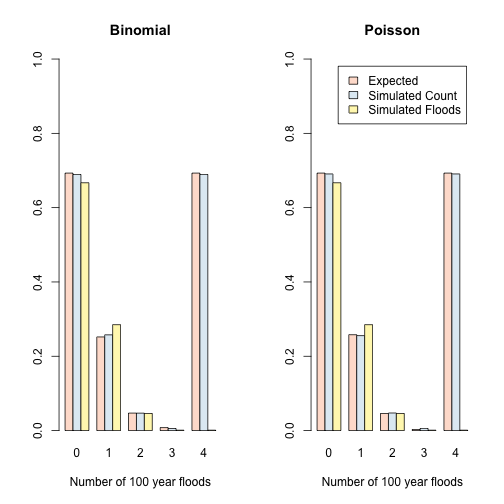
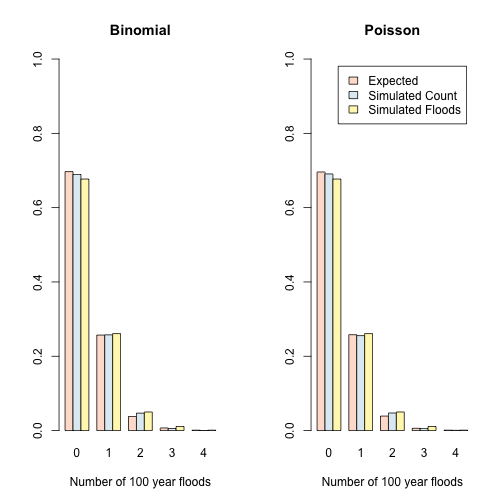
changed output organization

diff --git a/pelicanconf.py b/pelicanconf.py
@@ -2,6 +2,7 @@
 # -*- coding: utf-8 -*- #
 from __future__ import unicode_literals
 
+
 AUTHOR = 'Maazin Ansari'
 SITENAME = 'Maazin Ansari'
 SITEURL = ''
@@ -22,52 +23,57 @@ TRANSLATION_FEED_ATOM = None
 AUTHOR_FEED_ATOM = None
 AUTHOR_FEED_RSS = None
 
-# Blogroll
-LINKS = (('Pelican', 'http://getpelican.com/'),
-         ('Python.org', 'http://python.org/'),
-         ('Jinja2', 'http://jinja.pocoo.org/'),)
+# Theme
+THEME = "notmyidea"
 
 # Social widget
 SOCIAL = (('LinkedIn', 'https://www.linkedin.com/in/maazin-ansari/'),
           ('GitHub', 'https://github.com/maazinansari/'),
           ('Twitter', 'https://twitter.com/MaazinAnsari'),)
 
+SUMMARY_MAX_LENGTH = 30
 DEFAULT_PAGINATION = 5
+
+# Disable authors, categories, tags, and category pages
+DIRECT_TEMPLATES = ['index', 'archives']
+CATEGORY_SAVE_AS = ''
 
 DISPLAY_PAGES_ON_MENU = False
 DISPLAY_CATEGORIES_ON_MENU = False # manually added in MENUITEMS
 
 MENUITEMS = [
-    ('Statistics', '/category/statistics.html'),
-    ('Geography', '/category/geography.html'),
-    ('Archives', 'archives.html'),
-    ('About', '/en/about'),
+#    ('Statistics', '/category/statistics.html'),
+    ('About', '/about'),
+    ('Archives', '/archives'),
+    ('Links', '/links'),
     ]
 
 # This works without i18n_subsites:
-ARTICLE_URL = '{lang}/{slug}'
+ARTICLE_URL = 'posts/{slug}'
 ARTICLE_SAVE_AS = ARTICLE_URL + '/index.html'
-ARTICLE_LANG_URL = ARTICLE_URL
-ARTICLE_LANG_SAVE_AS = ARTICLE_SAVE_AS
+ARTICLE_LANG_URL = ARTICLE_URL + '-{lang}'
+ARTICLE_LANG_SAVE_AS = ARTICLE_LANG_URL + '/index.html'
+
 DRAFT_URL = 'drafts/' + ARTICLE_URL
 DRAFT_SAVE_AS = DRAFT_URL + '/index.html'
 DRAFT_LANG_URL = DRAFT_URL
 DRAFT_LANG_SAVE_AS = DRAFT_SAVE_AS
-PAGE_URL = ARTICLE_URL
-PAGE_SAVE_AS = ARTICLE_SAVE_AS
-PAGE_LANG_URL = ARTICLE_LANG_URL
-PAGE_LANG_SAVE_AS = ARTICLE_LANG_SAVE_AS
+
+PAGE_URL = '{slug}'
+PAGE_SAVE_AS = PAGE_URL + '/index.html'
+PAGE_LANG_URL = PAGE_URL + '-{lang}'
+PAGE_LANG_SAVE_AS = PAGE_LANG_URL + '/index.html'
 
 # Uncomment following line if you want document-relative URLs when developing
-#RELATIVE_URLS = True
+# RELATIVE_URLS = True
 
 # Static
-STATIC_PATHS = ['images', 'static', 'img']
+STATIC_PATHS = ['static', 'img']
 PLUGIN_PATHS = ['plugins/pelican-plugins']
 
 PLUGINS = ["render_math",
 #          "i18n_subsites",
-          ]
+]
 
 # i18n_subsites
 # I18N_SUBSITES = {

diff --git a/publishconf.py b/publishconf.py
@@ -10,7 +10,7 @@ import sys
 sys.path.append(os.curdir)
 from pelicanconf import *
 
-SITEURL = 'https://maazinansari.com'
+SITEURL = 'http://maazinansari.com'
 RELATIVE_URLS = True
 
 FEED_ALL_ATOM = 'feeds/all.atom.xml'
@@ -21,7 +21,7 @@ DELETE_OUTPUT_DIRECTORY = True
 # Following items are often useful when publishing
 
 #DISQUS_SITENAME = ""
-#GOOGLE_ANALYTICS = ""
+GOOGLE_ANALYTICS = "UA-112496271-1"
 
 SSH_USER = 'maazin'
 SSH_HOST = 'maazinansari.com'

diff --git a/content/posts/HundredYrFlood1.md b/content/posts/HundredYrFlood1.md
@@ -1,7 +1,7 @@
 ---
 title: 100-Year Flood Part 1
 author: Maazin Ansari
-date: 2018-01-11
+date: 2018-01-12
 slug: 100-yr-flood-1
 lang: en
 category: Statistics
@@ -18,7 +18,7 @@ In this first part, I'll show how the hundred year flood is calculated from data
 
 # Parameter Estimation
 
-The data I use here comes from Problem 6 in 
+The data I use here comes from Problem 6[^2] in 
 
 Ross, Sheldon M. “Chapter 7: Parameter Estimation.” *Introduction to Probability and Statistics for Engineers and Scientists*, 5th ed., Elsevier, AP, 2014, pp. 285–286.
 
@@ -92,7 +92,7 @@ hist(floods[["discharge"]], nclass = 25, freq = TRUE, xlab = "discharge", main =
 
 <img src="/static/HundredYrFlood1/hist-1-1.png" title="center" alt="center" style="display: block; margin: auto;" />
 
-The next step is to determine which log-normal distribution this data comes from. In other words, what are the parameters for this distribution.
+The next step is to determine which log-normal distribution this data comes from. In other words, what are the parameters for this distribution?
 
 ## Log-normal distribution
 
@@ -100,9 +100,9 @@ $$f(x) = \frac{1}{x\sigma\sqrt{2π}} \exp\Big(-\frac{(\ln x - \mu)^2}{2 \sigma^2
 
 The log-normal distribution is similar to the normal distribution in that it has two parameters, $\mu$ and $\sigma$. We need to estimate both.
 
-The following sections show how to estimate the parameters for the log-normal distribution, using two different methods.
+The following sections show how to estimate the parameters for the log-normal distribution, using four different methods I found in a paper on log-normal parameter estimation[^1].
 
-## Maximum Likelihood Estimates
+### Maximum Likelihood Estimates
 
 $$
 \hat{\mu}=\frac{\sum \ln x_i}{n} = \overline{\ln x_i}
@@ -120,11 +120,9 @@ $$
 
 ```r
 sigma_hat = (log(floods[["discharge"]]) - mu_hat)^2 %>% mean %>% sqrt
-
-# Method of Moments Estimators ----
 ```
 
-## Method of Moments Estimates
+### Method of Moments Estimates
 
 $$
 \tilde{\sigma}^2= \ln{\sum_{i=1}^nx_i^2} - 2\ln{\sum_{i=1}^nx_i}+\ln(n)
@@ -147,29 +145,41 @@ $$
 mu_tilde = (floods[["discharge"]] %>% sum %>% log) -
             log(nrow(floods)) - 
             (sigma_tilde)^2 / 2
-
-# Serfling Robust Estimators ----
 ```
 
-## Serfling Robust Estimates and Finney Efficient Estimates
+### Serfling Robust Estimates and Finney Efficient Estimates
 
-The next two methods are a little more complex. The code I used to compute them is available on my GitHub. 
+The next two methods are a little more complex.
 
-The serfling estimators 
+The Serfling method computes a sample statistic for all $n\choose k$ permutations of the data, then selects the median as the estimate. 
+
+I made slight modifications to the algorithm for the sake of computation speed. First, I only use 10,000 permutations. Serfling and Ginos limit the number of permutations to 10^7^, but I found even that was too high for R. Second, I did not intentionally use unique permutations. Instead I drew random samples of $k=9$ from the data. I didn't check if all 10,000 were unique. Maybe later I'll make a post investigating how much accuracy my method compromises for speed.
+
+
+```r
+source("serfling.R")
+
+serfling_estimates = serfling_estimate_1(floods[["discharge"]])
+mu_hat_serf = serfling_estimates[[1]]
+sigma_hat_serf = serfling_estimates[[2]]
+```
+
+
+The Finney method uses adjusted versions of the sample mean and variance to estimate $\mu$ and $\sigma$.
+
+
+```r
+source("finney.R")
+
+finney_estimates = finney_estimate_1(floods[["discharge"]])
+mu_hat_finney = finney_estimates[[1]]
+sigma_hat_finney = finney_estimates[[2]]
+```
+
 
 ## Estimated distributions
 
 Since we now have parameters, we have distributions. We can plot the four probability density functions with the histogram to see how well they fit with the data.
-
-
-```r
-hist(floods[["discharge"]], nclass = 25, freq = FALSE, xlab = "discharge", main = "")
-lnorm_plot_v(mu = mu_hat, sigma = sigma_hat, col = "red", add = TRUE)
-lnorm_plot_v(mu = mu_tilde, sigma = sigma_tilde, col = "blue", add = TRUE)
-lnorm_plot_v(mu = mu_hat_serf, sigma = sigma_hat_serf, col = "darkorange", add = TRUE)
-lnorm_plot_v(mu = mu_hat_finney, sigma = sigma_hat_finney, col = "purple", lty = 2, add = TRUE)
-legend("topright", legend = c("MLE", "MOM", "Serfling", "Finney"), lty = c(1,1,1,2), col = c("red", "blue", "darkorange", "purple"), bty = "n")
-```
 
 ![center](/static/HundredYrFlood1/hist-2-1.png)
 
@@ -181,7 +191,7 @@ Note that the Finney efficient estimates are very similar to the maximum likelih
 |MLE      | 8.594057| 0.5116531|
 |MOM      | 8.593508| 0.5118573|
 |Serfling | 8.505484| 0.7142709|
-|Finney   | 8.577885| 0.4281297|
+|Finney   | 8.586239| 0.4270907|
 
 Now we can determine the value $v$ for which $P(D \geq v) = 0.01$ or equivalently $P(D <  v) = 0.99$
 
@@ -206,27 +216,21 @@ v_finney = qlnorm(p = 0.99, meanlog = mu_hat_finney, sdlog = sigma_hat_finney)
 ```
 
 
-```r
-v_table = matrix(c(v_mle, v_mom, v_serf, v_finney), 4)
-dimnames(v_table) = list(c("MLE", "MOM", "Serfling", "Finney"), "v")
-kable(v_table)
-```
-
-
-
 |         |        v|
 |:--------|--------:|
 |MLE      | 17753.54|
 |MOM      | 26033.18|
-|Serfling | 27987.91|
+|Serfling | 28222.70|
 |Finney   | 17752.23|
 
 From the data, we see that in only one year, 1955, was the value exceeded.
 
 <img src="/static/HundredYrFlood1/lnorm-plots-1.png" title="center" alt="center" style="display: block; margin: auto;" />
 
+In the next post, I'll look at how likely this is: to have one such flood in a 37-year period.
+
 # References
 
-Ginos, Brenda Faith, "Parameter Estimation for the Lognormal Distribution" (2009). *All Theses and Dissertations*. 1928. http://scholarsarchive.byu.edu/etd/1928
+[^1]: Ginos, Brenda Faith, "Parameter Estimation for the Lognormal Distribution" (2009). *All Theses and Dissertations*. 1928. http://scholarsarchive.byu.edu/etd/1928
 
-Ross, Sheldon M. “Chapter 7: Parameter Estimation.” *Introduction to Probability and Statistics for Engineers and Scientists*, 5th ed., Elsevier, AP, 2014, pp. 285–286.
+[^2]: Ross, Sheldon M. “Chapter 7: Parameter Estimation.” *Introduction to Probability and Statistics for Engineers and Scientists*, 5th ed., Elsevier, AP, 2014, pp. 285–286.

diff --git a/content/posts/HundredYrFlood2.md b/content/posts/HundredYrFlood2.md
@@ -13,11 +13,6 @@ output: html_document
 
 
 
-```r
-# Here I try to run HundredYrFlood1.Rmd so I can use the objects and variables in this .Rmd
-# I use one R script in both parts.
-source("HundredYrFlood.R")
-```
 
 
 In Part 1, I estimated $v$, the value of the 100-year flood for Blackstone River in Woonsocket, RI. The result using maximum likelihood estimation was 17754 $\text{ft}^3/\text{s}$. What does that mean, and is it accurate? 
@@ -85,25 +80,33 @@ Knowing the log-normal distribution, we can simulate 37 years of flooding to see
 
 ### Count simulation
 
-We can simulate the number of 100-year floods occuring in a 37-year period by simulating binomial and Poisson processes.
+We can simulate the number of 100-year floods occuring in a 37-year period by simulating binomial and Poisson processes 1000 times.
 
 
 ```r
+set.seed(2018)
+N = 1000
 # Binomial
 bFloods = rbinom(n = N, size = 37, prob = 0.01)
+b_table = table(bFloods)/N ; b_table
 ```
 
 ```
-## Error in rbinom(n = N, size = 37, prob = 0.01): object 'N' not found
+## bFloods
+##     0     1     2     3     4 
+## 0.697 0.257 0.038 0.007 0.001
 ```
 
 ```r
 # Poisson
 pFloods = rpois(n = N, lambda = 37*0.01)
+p_table = table(pFloods)/N ; p_table
 ```
 
 ```
-## Error in rpois(n = N, lambda = 37 * 0.01): object 'N' not found
+## pFloods
+##     0     1     2     3     4 
+## 0.696 0.258 0.039 0.006 0.001
 ```
 
 ### Log-normal simulation
@@ -118,46 +121,36 @@ N = 1000
 m = replicate(n = N, expr = rlnorm(n = 37, meanlog = mu_hat, sdlog = sigma_hat)) %>% as.matrix
 ```
 
-Now, let's count how many 100-year floods occur in the 1000 37-year periods.
+Now, let's count how many 100-year floods occured in the 1000 37-year periods. In other words, for each column (simulation), how many rows (years) exceed 17754? Then we'll make a table to see how frequent the counts are.
 
 
 ```r
-sim_counts = apply(X = m, MARGIN = 2, FUN = function(x) sum(x > v_mle))
-sim_table = table(sim_counts)/N
+sim_counts = apply(X = m, # apply to the matrix m
+                   MARGIN = 2, # for each column...
+                   FUN = function(x) sum(x > v_mle)) # ...count the number of years > v_mle
+sim_table = table(sim_counts)/N; sim_table
+```
+
+```
+## sim_counts
+##     0     1     2     3     4 
+## 0.677 0.261 0.050 0.011 0.001
 ```
 
 The following graph compares the expected probabilities and the simulated probabilities. The red and blue bars show the expected and simulated counts, respectively. The yellow bars show the counts using simulated floods. 
 
-
-```
-## Error in table(bFloods): object 'bFloods' not found
-```
-
-```
-## Error in table(pFloods): object 'pFloods' not found
-```
-
-```
-## Error in barplot(df_binom, main = "Binomial", ylim = c(0, 1), beside = TRUE, : object 'df_binom' not found
-```
-
-```
-## Error in barplot(df_pois, main = "Poisson", ylim = c(0, 1), beside = TRUE, : object 'df_pois' not found
-```
+![center](/static/HundredYrFlood2/unnamed-chunk-5-1.png)
 
 In a 37-year period, it's much more likely to have zero 100-year floods than to have one. Still, the probability of exactly one is high, about 26%.
 
+Method                     | Probability of exactly 1 100-year flood in 37 years
+---------------------------|-----------------------------------------------------
+Expected Binomial Counts   | 0.25767
+Simulated Binomial Counts  | 0.257
+Expected Poisson  Counts   | 0.25557
+Simulated Poisson Counts   | 0.258
+Counts of Simulated Floods | 0.261
 
-```r
-# Binomial
-p_1_binomial = dbinom(x = 1, size = 37, prob = 0.01)
-# Poisson
-p_1_poisson = dpois(x = 1, lambda = 37*0.01)
-```
-
-Binomial         | Poisson         | Flood simulation
------------------|-----------------|---------------------
-0.25767 | 0.25557 | 0.269
 
 
 
